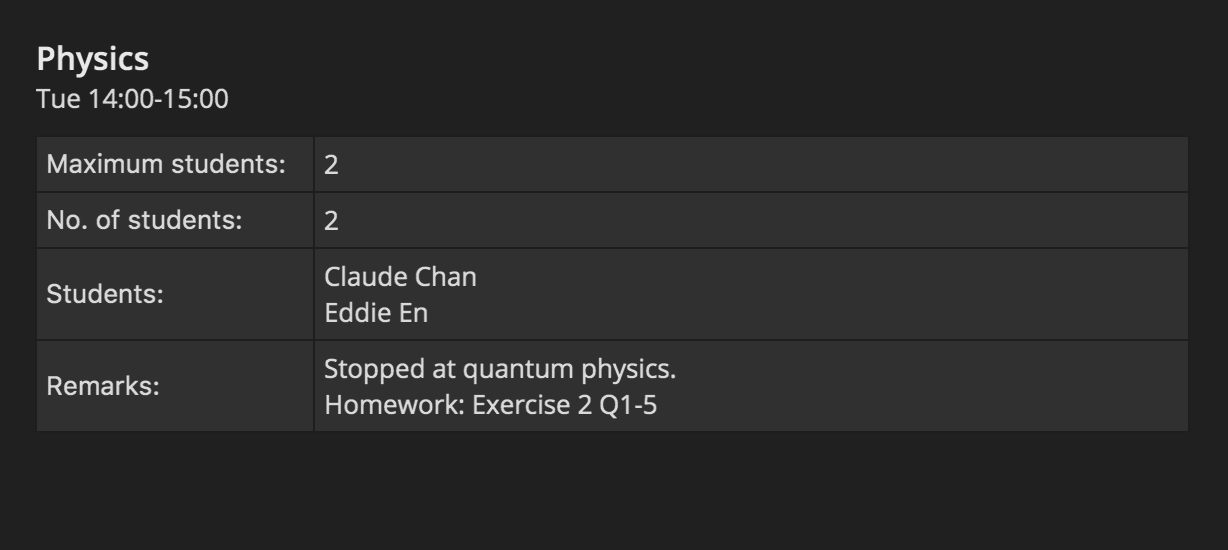
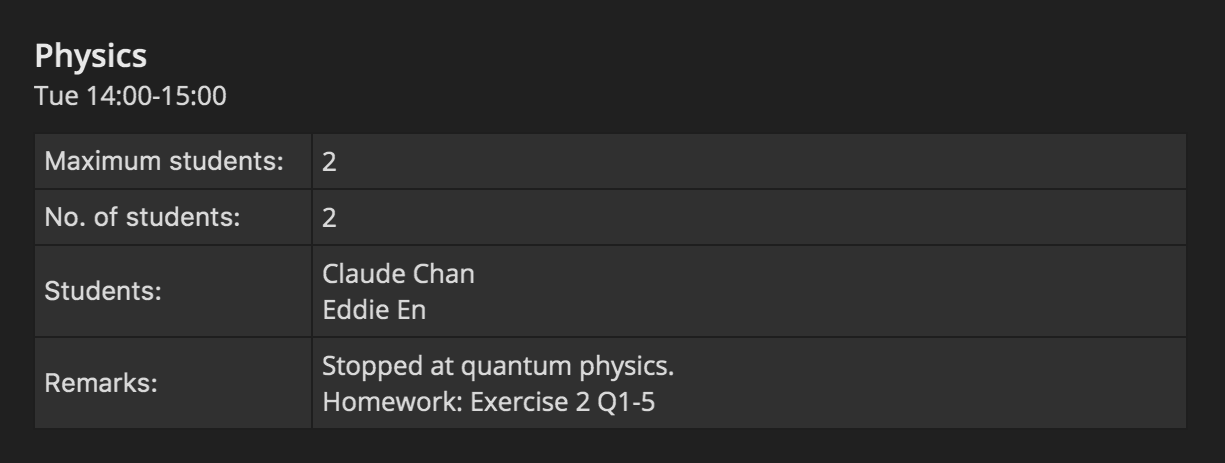
Resize screenshots

diff --git a/docs/UserGuide.md b/docs/UserGuide.md
@@ -262,8 +262,11 @@ or
 ```
 vs 2
 ```
-![view student](images/student_view.png)
-<p align="center"><i>Figure 2: Displaying a student's details in the information page</i></p>
+
+<p align="center">
+    <img src="/tp/images/student_view.png" alt="view student" width="650" height="180"><br>
+    <i>Figure 2: Displaying a student's details in the information page</i>
+</p>
 
 #### 3.2.2 Viewing a tuition class: `class` | `vc`
 Format: `class INDEX`
@@ -276,8 +279,10 @@ or
 ```
 vc 3
 ```
-![view class](images/class_view.png)
-<p align="center"><i>Figure 3: Displaying details of a class in the information page</i></p>
+<p align="center">
+    <img src="/tp/images/class_view.png" alt="view class" width="650" height="180"><br>
+    <i>Figure 3: Displaying details of a class in the information page</i>
+</p>
 
 ### 3.3 Edit student/tuition class
 Edits an existing student or tuition class.
@@ -422,8 +427,10 @@ Upon entering the command, a pop-up window with a text box is displayed for you 
 Users can add, remove, or edit remarks through the editor window.
 </div>
 
-![Remark editor](images/remark_editor_student.png)
-<p align="center"><i>Figure 5: Editing remarks with editor window</i></p>
+<p align="center">
+    <img src="/tp/images/remark_editor_student.png" width=520 height=250 alt="Remark editor"><br>
+    <i>Figure 5: Editing remarks with editor window</i>
+</p>
 
 <div markdown="span" class="alert alert-primary">
 :warning: For MacOS users, the remarks editor may open as a new tab instead of a window, which can cause a UI bug where the buttons are not displayed correctly. To open as a new window instead, go to System preferences > General > Prefer tabs and choose never. 
